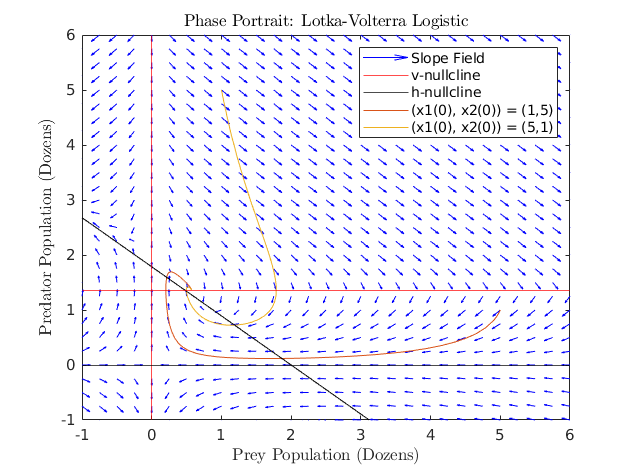
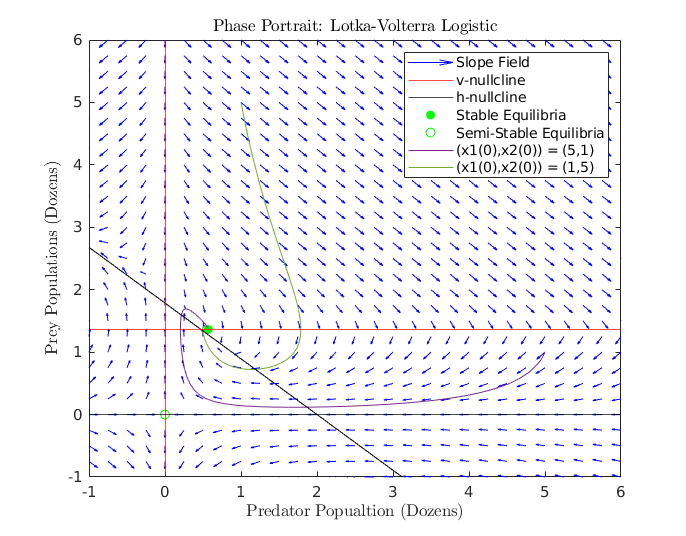
hopefully last additions

diff --git a/Models/Project1.m b/Models/Project1.m
@@ -139,6 +139,10 @@ xline(0, 'red')
 yline(0,'black')
 yline((1.5/1.1), 'red');
 legend('Slope Field', 'h-nullcline', 'v-nullcline')
+equY2 = [(1.5/1.1)];
+equX2 = [(2.5-(2.5*0.5*(1.5/1.1)))/1.4];
+scatter(equX2, equY2,'g', 'filled')
+scatter(0,0, 'g')
 % anonymous function for one of the clines
 f5 = @(x2) ((2.5-(2.5*0.5*x2))/1.4);
 hnull = arrayfun(f5, linspace(-1, 6, 100));
